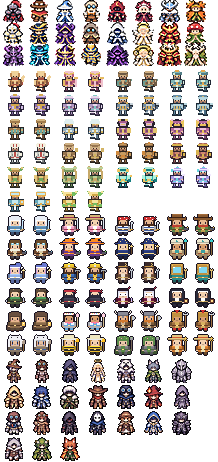
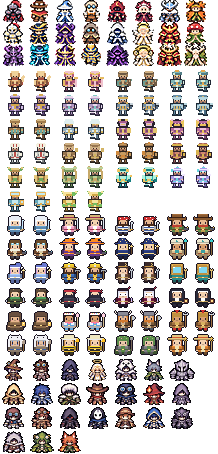
레어·에픽 새 스킨 24종: 기존 스킨과 같은 신체 비율로 다시 굽기
Claude-Session: https://claude.ai/code/session_01X4GXs6swjtgSkSe7EQABgB

diff --git a/js/data/heroes.js b/js/data/heroes.js
@@ -168,7 +168,7 @@ const SKINS = [
   { id: 'skin_c_r18', name: '여우불 숲지기', hero: 'hero_druid', sprite: 'c_r18', rarity: 'rare', source: 'common', desc: '드루이드 레어 외형 — 여우 귀와 주황색 망토' }
 ];
 // 일반 스킨 시트(assets/commonskins.png) 좌표 [x,y,w,h] — 앞모습 1포즈 (좌우 반전만)
-const COMMON_SKIN = { c_swordsman_1: [2, 0, 22, 22], c_gunner_1: [30, 0, 18, 22], c_mage_1: [56, 0, 18, 22], c_engineer_1: [82, 0, 18, 22], c_assassin_1: [107, 0, 20, 22], c_priest_1: [133, 0, 20, 22], c_berserker_1: [158, 0, 22, 22], c_druid_1: [184, 0, 22, 22], c_swordsman_2: [3, 22, 20, 22], c_gunner_2: [29, 22, 20, 22], c_mage_2: [54, 22, 22, 22], c_engineer_2: [82, 22, 18, 22], c_assassin_2: [106, 22, 22, 22], c_priest_2: [132, 22, 22, 22], c_berserker_2: [157, 22, 24, 22], c_druid_2: [184, 22, 22, 22], c_swordsman_3: [2, 44, 22, 22], c_gunner_3: [28, 44, 22, 22], c_mage_3: [54, 44, 22, 22], c_engineer_3: [81, 44, 20, 22], c_assassin_3: [105, 44, 24, 22], c_priest_3: [132, 44, 22, 22], c_berserker_3: [156, 44, 26, 22], c_druid_3: [183, 44, 24, 22], c_n01: [2, 70, 26, 22], c_n02: [56, 70, 26, 22], c_n03: [110, 70, 26, 22], c_n04: [164, 70, 26, 22], c_n05: [2, 94, 26, 22], c_n06: [56, 94, 26, 22], c_n07: [110, 94, 26, 22], c_n08: [164, 94, 26, 22], c_n09: [2, 118, 26, 22], c_n10: [56, 118, 26, 22], c_n11: [110, 118, 26, 22], c_n12: [164, 118, 26, 22], c_n13: [2, 142, 26, 22], c_n14: [56, 142, 26, 22], c_n15: [110, 142, 26, 22], c_n16: [164, 142, 26, 22], c_n17: [2, 166, 26, 22], c_n18: [56, 166, 26, 22], c_n19: [110, 166, 26, 22], c_n20: [164, 166, 26, 22], c_n21: [2, 190, 26, 22], c_n22: [56, 190, 26, 22], c_n23: [2, 214, 26, 22], c_n24: [56, 214, 26, 22], c_n25: [110, 214, 26, 22], c_n26: [164, 214, 26, 22], c_n27: [2, 238, 26, 22], c_n28: [56, 238, 26, 22], c_n29: [110, 238, 26, 22], c_n30: [164, 238, 26, 22], c_n31: [2, 262, 26, 22], c_n32: [56, 262, 26, 22], c_n33: [110, 262, 26, 22], c_n34: [164, 262, 26, 22], c_n35: [2, 286, 26, 22], c_n36: [56, 286, 26, 22], c_n37: [110, 286, 26, 22], c_n38: [164, 286, 26, 22], c_n39: [2, 310, 26, 22], c_n40: [56, 310, 26, 22], c_n41: [110, 310, 26, 22], c_n42: [164, 310, 26, 22], c_n43: [2, 334, 26, 22], c_n44: [56, 334, 26, 22], c_n45: [110, 334, 26, 22], c_n46: [164, 334, 26, 22], c_e01: [6, 359, 16, 24], c_e02: [35, 359, 14, 24], c_e03: [62, 359, 16, 24], c_e04: [90, 359, 16, 24], c_e05: [117, 359, 18, 24], c_e06: [145, 359, 17, 24], c_r01: [171, 359, 21, 24], c_r02: [4, 385, 20, 24], c_r03: [32, 385, 19, 24], c_r04: [60, 385, 19, 24], c_r05: [88, 385, 20, 24], c_r06: [117, 385, 18, 24], c_r07: [144, 385, 19, 24], c_r08: [174, 385, 16, 24], c_r09: [5, 411, 18, 24], c_r10: [33, 411, 17, 24], c_r11: [61, 411, 17, 24], c_r12: [89, 411, 17, 24], c_r13: [117, 411, 18, 24], c_r14: [144, 411, 19, 24], c_r15: [172, 411, 19, 24], c_r16: [5, 437, 18, 24], c_r17: [32, 437, 20, 24], c_r18: [60, 437, 20, 24] };
+const COMMON_SKIN = { c_swordsman_1: [2, 0, 22, 22], c_gunner_1: [30, 0, 18, 22], c_mage_1: [56, 0, 18, 22], c_engineer_1: [82, 0, 18, 22], c_assassin_1: [107, 0, 20, 22], c_priest_1: [133, 0, 20, 22], c_berserker_1: [158, 0, 22, 22], c_druid_1: [184, 0, 22, 22], c_swordsman_2: [3, 22, 20, 22], c_gunner_2: [29, 22, 20, 22], c_mage_2: [54, 22, 22, 22], c_engineer_2: [82, 22, 18, 22], c_assassin_2: [106, 22, 22, 22], c_priest_2: [132, 22, 22, 22], c_berserker_2: [157, 22, 24, 22], c_druid_2: [184, 22, 22, 22], c_swordsman_3: [2, 44, 22, 22], c_gunner_3: [28, 44, 22, 22], c_mage_3: [54, 44, 22, 22], c_engineer_3: [81, 44, 20, 22], c_assassin_3: [105, 44, 24, 22], c_priest_3: [132, 44, 22, 22], c_berserker_3: [156, 44, 26, 22], c_druid_3: [183, 44, 24, 22], c_n01: [2, 70, 26, 22], c_n02: [56, 70, 26, 22], c_n03: [110, 70, 26, 22], c_n04: [164, 70, 26, 22], c_n05: [2, 94, 26, 22], c_n06: [56, 94, 26, 22], c_n07: [110, 94, 26, 22], c_n08: [164, 94, 26, 22], c_n09: [2, 118, 26, 22], c_n10: [56, 118, 26, 22], c_n11: [110, 118, 26, 22], c_n12: [164, 118, 26, 22], c_n13: [2, 142, 26, 22], c_n14: [56, 142, 26, 22], c_n15: [110, 142, 26, 22], c_n16: [164, 142, 26, 22], c_n17: [2, 166, 26, 22], c_n18: [56, 166, 26, 22], c_n19: [110, 166, 26, 22], c_n20: [164, 166, 26, 22], c_n21: [2, 190, 26, 22], c_n22: [56, 190, 26, 22], c_n23: [2, 214, 26, 22], c_n24: [56, 214, 26, 22], c_n25: [110, 214, 26, 22], c_n26: [164, 214, 26, 22], c_n27: [2, 238, 26, 22], c_n28: [56, 238, 26, 22], c_n29: [110, 238, 26, 22], c_n30: [164, 238, 26, 22], c_n31: [2, 262, 26, 22], c_n32: [56, 262, 26, 22], c_n33: [110, 262, 26, 22], c_n34: [164, 262, 26, 22], c_n35: [2, 286, 26, 22], c_n36: [56, 286, 26, 22], c_n37: [110, 286, 26, 22], c_n38: [164, 286, 26, 22], c_n39: [2, 310, 26, 22], c_n40: [56, 310, 26, 22], c_n41: [110, 310, 26, 22], c_n42: [164, 310, 26, 22], c_n43: [2, 334, 26, 22], c_n44: [56, 334, 26, 22], c_n45: [110, 334, 26, 22], c_n46: [164, 334, 26, 22], c_e01: [4, 359, 19, 22], c_e02: [33, 359, 17, 22], c_e03: [61, 359, 18, 22], c_e04: [88, 359, 19, 22], c_e05: [115, 359, 22, 22], c_e06: [144, 359, 20, 22], c_r01: [169, 359, 26, 22], c_r02: [2, 383, 23, 22], c_r03: [31, 383, 22, 22], c_r04: [58, 383, 23, 22], c_r05: [86, 383, 23, 22], c_r06: [115, 383, 22, 22], c_r07: [143, 383, 22, 22], c_r08: [172, 383, 19, 22], c_r09: [3, 407, 21, 22], c_r10: [31, 407, 21, 22], c_r11: [60, 407, 20, 22], c_r12: [88, 407, 20, 22], c_r13: [115, 407, 21, 22], c_r14: [143, 407, 22, 22], c_r15: [171, 407, 22, 22], c_r16: [3, 431, 22, 22], c_r17: [30, 431, 24, 22], c_r18: [58, 431, 23, 22] };
 // 드루이드 스킨 시트(assets/druidskin.png) 스프라이트 좌표 [x,y,w,h] — 이미 인게임 크기로 구움
 // 일반 스킨 걷기 프레임 (있는 스킨만): 이동 중 정지 ↔ 걷기 번갈아
 const COMMON_WALK = { c_n01: [28, 70, 26, 22], c_n02: [82, 70, 26, 22], c_n03: [136, 70, 26, 22], c_n04: [190, 70, 26, 22], c_n05: [28, 94, 26, 22], c_n06: [82, 94, 26, 22], c_n07: [136, 94, 26, 22], c_n08: [190, 94, 26, 22], c_n09: [28, 118, 26, 22], c_n10: [82, 118, 26, 22], c_n11: [136, 118, 26, 22], c_n12: [190, 118, 26, 22], c_n13: [28, 142, 26, 22], c_n14: [82, 142, 26, 22], c_n15: [136, 142, 26, 22], c_n16: [190, 142, 26, 22], c_n17: [28, 166, 26, 22], c_n18: [82, 166, 26, 22], c_n19: [136, 166, 26, 22], c_n20: [190, 166, 26, 22], c_n21: [28, 190, 26, 22], c_n22: [82, 190, 26, 22], c_n23: [28, 214, 26, 22], c_n24: [82, 214, 26, 22], c_n25: [136, 214, 26, 22], c_n26: [190, 214, 26, 22], c_n27: [28, 238, 26, 22], c_n28: [82, 238, 26, 22], c_n29: [136, 238, 26, 22], c_n30: [190, 238, 26, 22], c_n31: [28, 262, 26, 22], c_n32: [82, 262, 26, 22], c_n33: [136, 262, 26, 22], c_n34: [190, 262, 26, 22], c_n35: [28, 286, 26, 22], c_n36: [82, 286, 26, 22], c_n37: [136, 286, 26, 22], c_n38: [190, 286, 26, 22], c_n39: [28, 310, 26, 22], c_n40: [82, 310, 26, 22], c_n41: [136, 310, 26, 22], c_n42: [190, 310, 26, 22], c_n43: [28, 334, 26, 22], c_n44: [82, 334, 26, 22], c_n45: [136, 334, 26, 22], c_n46: [190, 334, 26, 22] };

diff --git a/CHANGELOG.md b/CHANGELOG.md
@@ -1,3 +1,6 @@
+## 레어·에픽 새 스킨 24종 신체 비율을 기존 스킨에 맞춤
+- 키 24 → 22 · 머리 비율 크게(위쪽 42% → 55%) · 몸·다리 짧게 · 가로 1.3배 → 기존 레어·에픽처럼 큰 머리의 통통한 꼬마 비율 (고해상도 원본에서 다시 줄여 도트가 뭉개지지 않게)
+
 ## 레어 18 · 에픽 6 스킨 추가
 - 사용자가 준 도트 시트에서 24명을 잘라(배경 그라데이션 제거) 인게임 크기(높이 24)로 줄여 일반 스킨 시트에 추가 · 레어 풀 16 → 34 · 에픽 풀 8 → 14 · 마일리지 상점에도 자동으로
 - 에픽: 시간의 현자(마도사) · 강철의 발명가(기술자) · 까마귀의 그림자(암살자) · 천상의 성가대(사제) · 설산의 폭군(광전사) · 달빛 늑대지기(드루이드)
